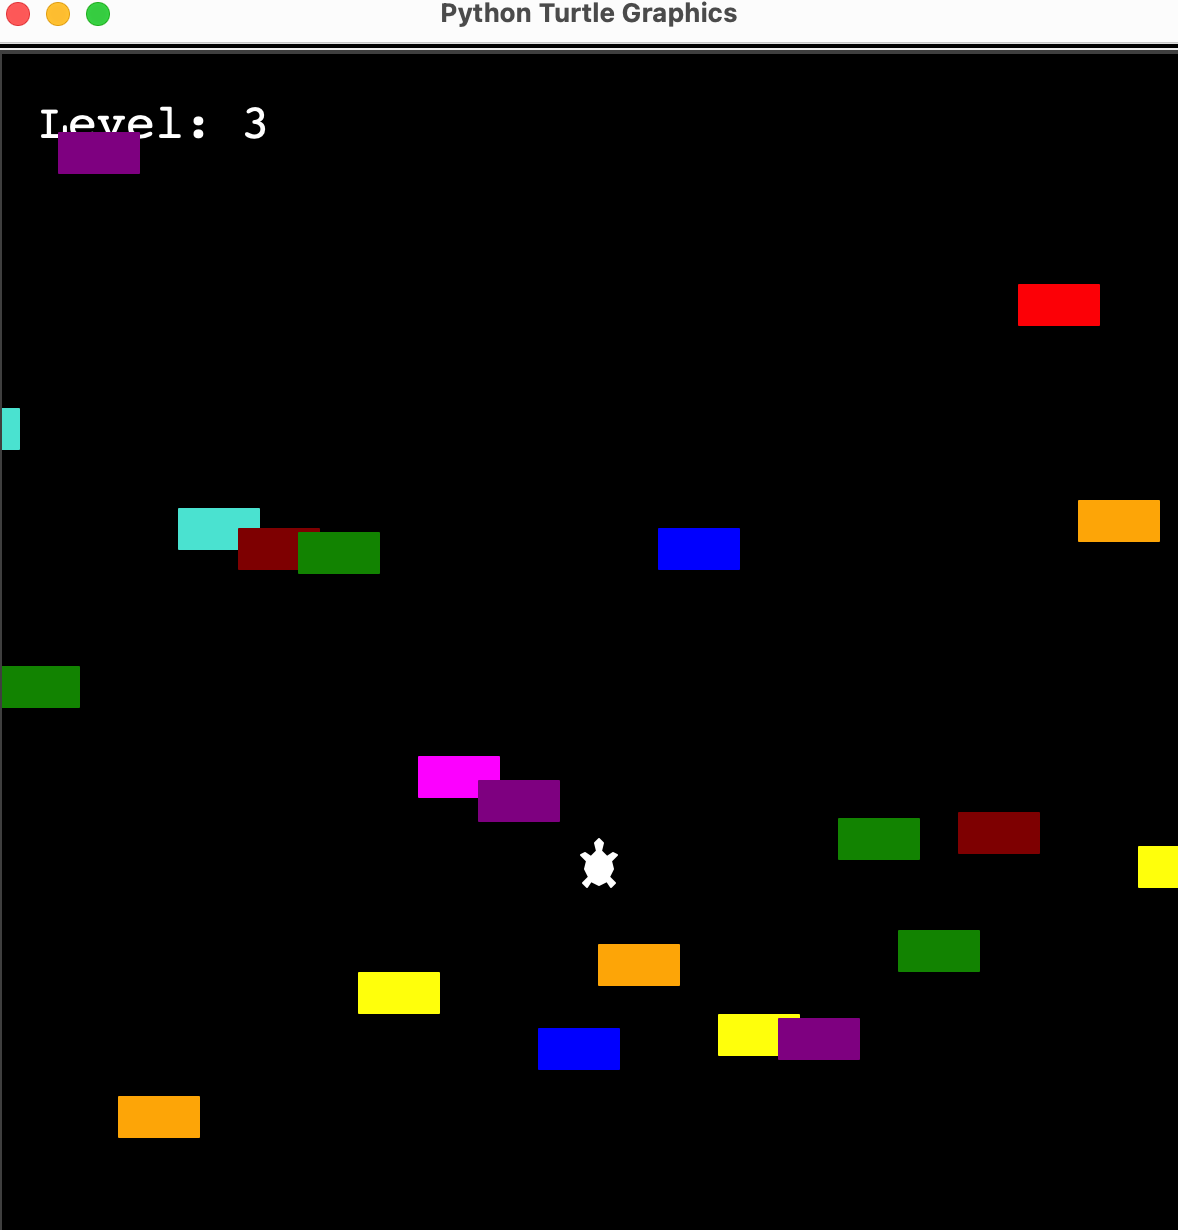
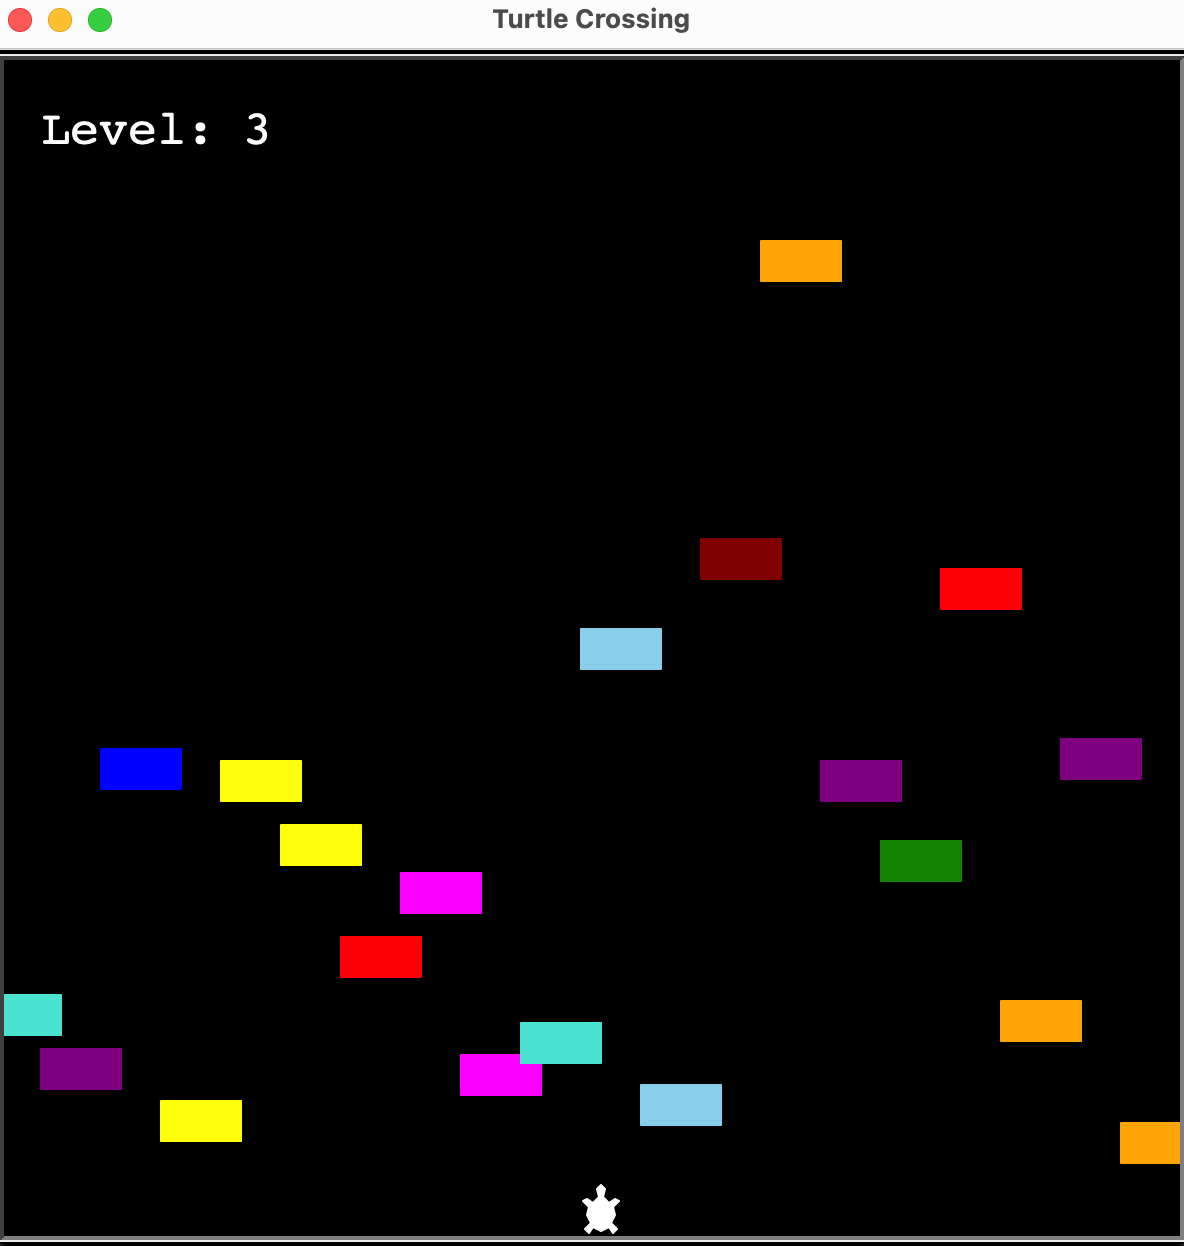
pcitures

diff --git a/main.py b/main.py
@@ -16,6 +16,7 @@ screen.setup(width=600, height=600)
 # set the background color of the window
 screen.bgcolor("black")
 screen.tracer(0)
+screen.title("Turtle Crossing")
 # initialize a player, cars_garage, and current_score objects from the respective classes
 player = Player()
 cars_garage = CarManager()

diff --git a/README.md b/README.md
@@ -165,4 +165,4 @@ Project Link: [https://github.com/sanduler/turtle-crossing](https://github.com/s
 [license-url]: https://github.com/sanduler/repo_name/blob/master/LICENSE.txt
 [linkedin-shield]: https://img.shields.io/badge/-LinkedIn-black.svg?style=for-the-badge&logo=linkedin&colorB=555
 [linkedin-url]: https://linkedin.com/in/linkedin_username
-[product-screenshot]: img/sim1.png
+[product-screenshot]: img/img4.png
